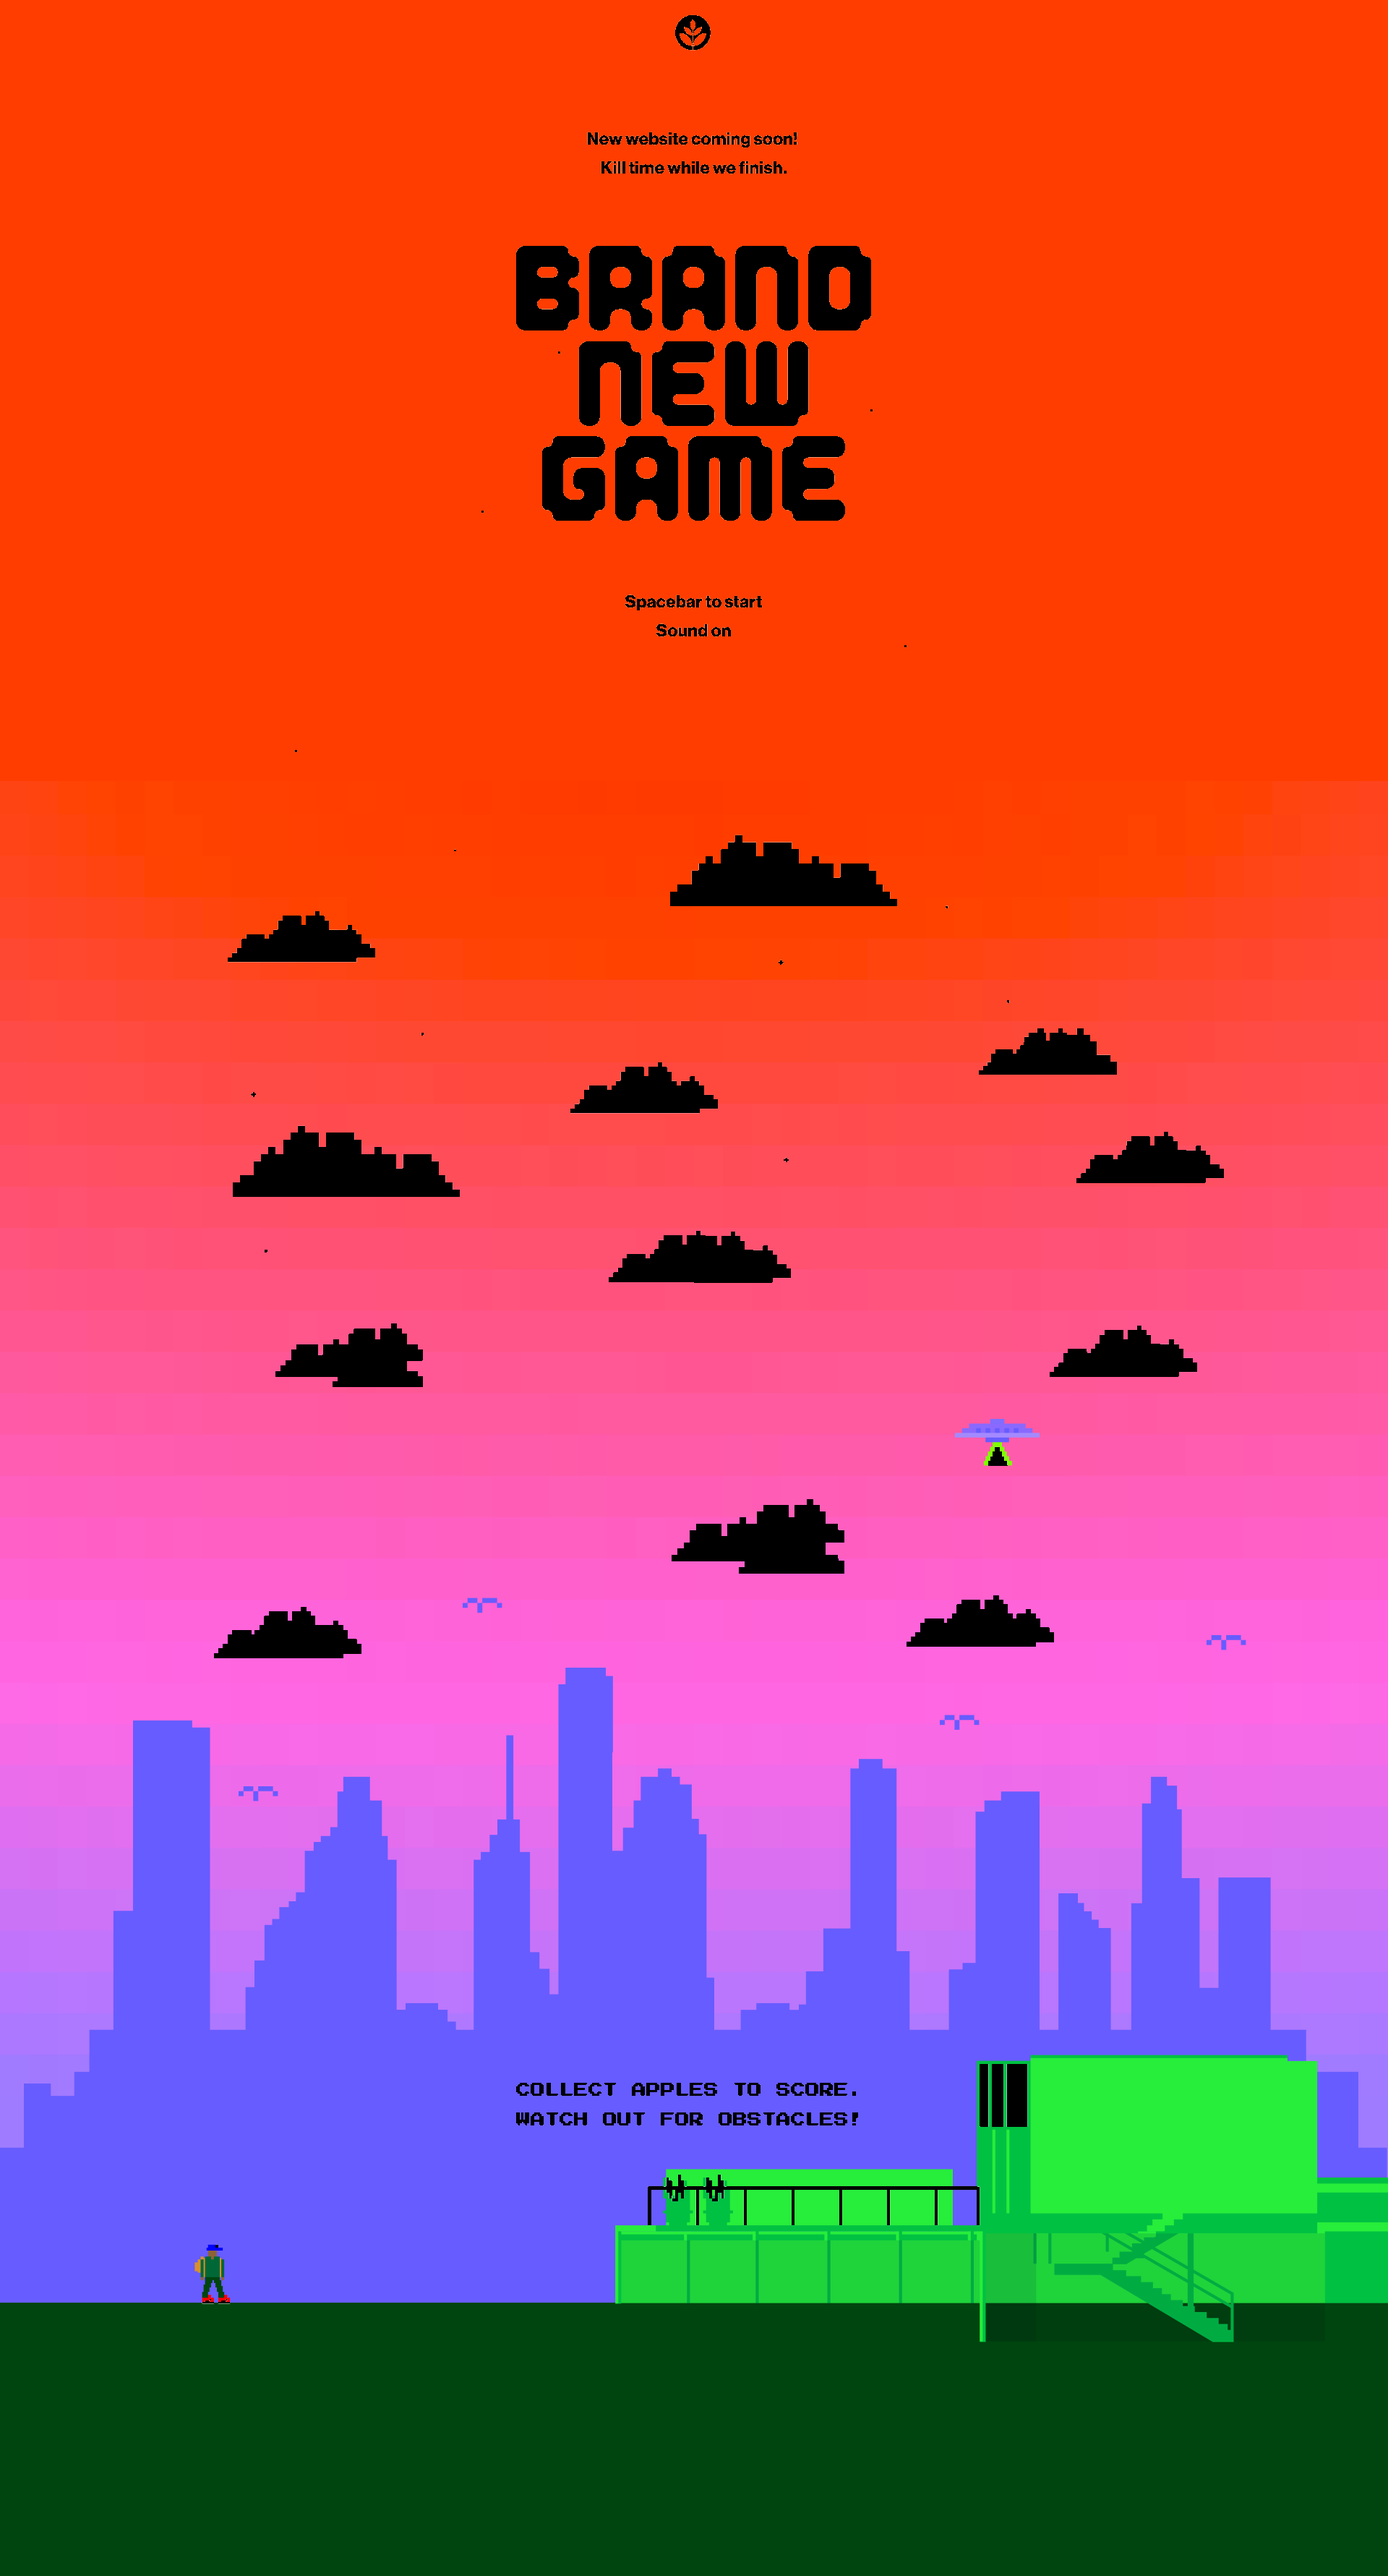
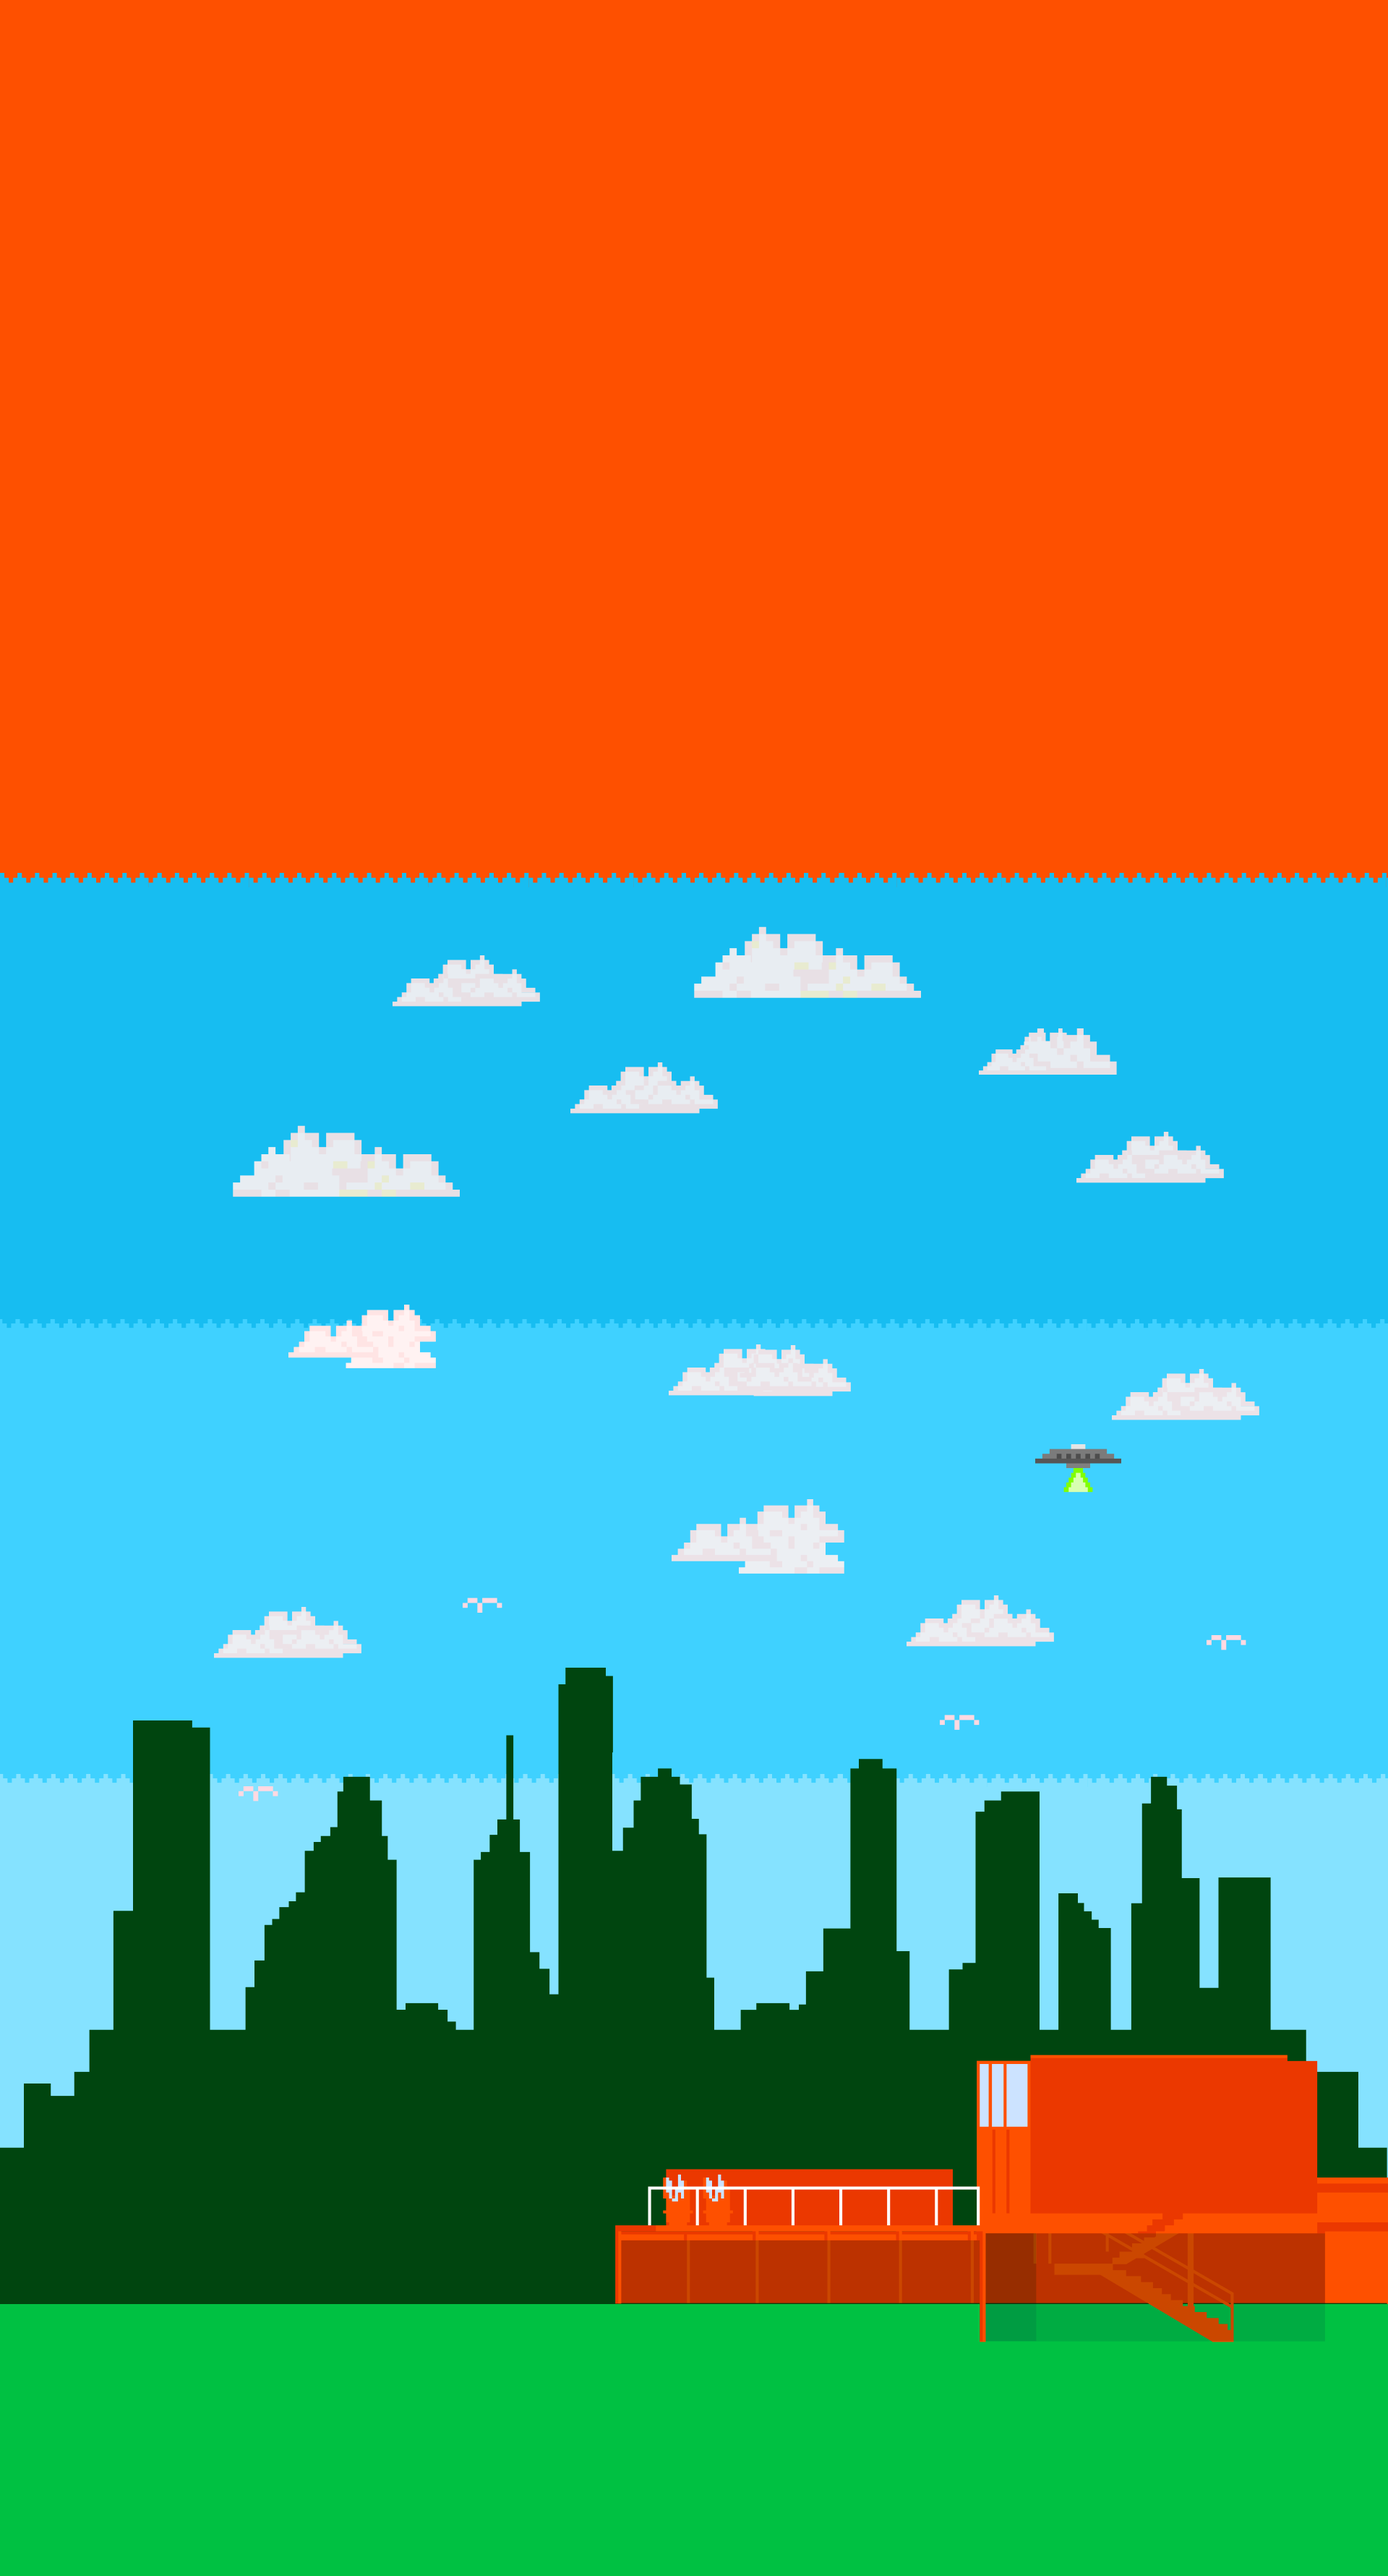
UI Changes

diff --git a/css/environment-colors.css b/css/environment-colors.css
@@ -1,10 +1,10 @@
 /* Environments used to change colors per level, not really needed anymore except for .black-screen*/
 
 :root {
-  --outside-top-color: #fe5000;
-  --outside-bottom-color: #BF92FF;
-  --hallway-top-color: #BF92FF;
-  --hallway-bottom-color: #BF92FF;
+  --outside-top-color: #00C142;
+  --outside-bottom-color: #00C142;
+  --hallway-top-color: #00C142;
+  --hallway-bottom-color: #00C142;
   --library-top-color: #BB5E4A;
   --library-bottom-color: #3C4043;
   --lab-top-color: #61A9FF;
@@ -14,55 +14,5 @@
 }
 
 .black-screen {
-  background-color: #BF92FF;
-}
-
-.outside {
-  background: linear-gradient(
-    to bottom,
-    var(--outside-top-color) 0%,
-    var(--outside-top-color) 50%,
-    var(--outside-bottom-color) 50%,
-    var(--outside-bottom-color) 100%
-  );
-}
-
-.hallway {
-  background: linear-gradient(
-    to bottom,
-    var(--hallway-top-color) 0%,
-    var(--hallway-top-color) 50%,
-    var(--hallway-bottom-color) 50%,
-    var(--hallway-bottom-color) 100%
-  );
-}
-
-.library {
-  background: linear-gradient(
-    to bottom,
-    var(--library-top-color) 0%,
-    var(--library-top-color) 50%,
-    var(--library-bottom-color) 50%,
-    var(--library-bottom-color) 100%
-  );
-}
-
-.lab {
-  background: linear-gradient(
-    to bottom,
-    var(--lab-top-color) 0%,
-    var(--lab-top-color) 50%,
-    var(--lab-bottom-color) 50%,
-    var(--lab-bottom-color) 100%
-  );
-}
-
-.gym {
-    background: linear-gradient(
-    to bottom,
-    var(--gym-top-color) 0%,
-    var(--gym-top-color) 50%,
-    var(--gym-bottom-color) 50%,
-    var(--gym-bottom-color) 100%
-  );
+  background-color: #00C142;
 }

diff --git a/styles.css b/styles.css
@@ -27,17 +27,18 @@ body {
     /* max-height: -webkit-fill-available; */
 
     font-family: 'Press Start 2P', cursive;
-    color: #CEFFDE;
+    color: #FFF0CC;
     background-color: #FF3D00;
   }
 
+  /* BG color is set in gameSetup.js */
   .world {
     position: relative;
     top: 50%;
-    background-color: #BF92FF;
+    background-color: #00C142;
     overflow: hidden;
     width: 100%;
-    color: #CEFFDE;
+    color: #FFF0CC;
     padding-top: (16 / 9 * 100);
     transform: translate(0, 30%);
 }
@@ -79,7 +80,7 @@ body {
     position: absolute;
     /* when updating width: make sure to change ground width value of second ground piece in setupGround() in ground.js */
     /* width is 1% bigger to cover boundary glitches */
-    width: 295%;
+    width: 202%;
     height: auto;
 
     top: 10.4%;
@@ -101,7 +102,7 @@ body {
     bottom: calc(var(--bottom) * 1%);
     will-change: transform;
 
-    /* Scale Pixel Art!! Doesnt work on Safari :( */
+    /* Scale Pixel Art!! Doesn't work on Safari :( */
     image-rendering: pixelated;
     image-rendering: crisp-edges;
 }
@@ -123,7 +124,7 @@ body {
     bottom: calc(var(--bottom) * 1%);
     will-change: transform;
 
-    /* Scale Pixel Art!! Doesnt work on Safari :( */
+    /* Scale Pixel Art!! Doesn't work on Safari :( */
     image-rendering: pixelated;
     image-rendering: crisp-edges;
 }

diff --git a/scripts/obstacle.js b/scripts/obstacle.js
@@ -9,7 +9,7 @@ import { variableHolder } from "./variableHandler.js";
 import { collectSound } from "./audioManager.js";
 import { windowElements } from "./variableHandler.js";
 
-// Ending Max: 500  Begining Max 2500:
+// Ending Max: 500  Beginning Max 2500:
 let CACTUS_INTERVAL_MIN = 600;
 let CACTUS_INTERVAL_MAX = 2000; // speed of obstacles appearing in milliseconds
 
@@ -211,14 +211,8 @@ export function createApple() {
 
   const randNum = randomNumberBetween(1, 10);
 
-  // Makes coins rarer
-  if (randNum >= 9) {
-    apple.src = "imgs/coin.png"; // selects the correct image from files
-    apple.classList.add("coin"); // adds CSS styles to apple
-  } else {
-    apple.src = "imgs/apple-v02.png"; // selects the correct image from files
-    apple.classList.add("apple"); // adds CSS styles to apple
-  }
+  apple.src = "imgs/apple-v02.png"; // selects the correct image from files
+  apple.classList.add("apple"); // adds CSS styles to apple
 
   setCustomProperty(apple, "--bottom", randomNumberBetween(45, 64)); // sets apple height
 

diff --git a/scripts/ground.js b/scripts/ground.js
@@ -21,13 +21,13 @@ export function hideGround() {
   });
 }
 
-const groundWidth = 294; // if you change this make sure to change .ground width in css
+const groundWidth = 201; // if you change this make sure to change .ground width in css
 export function resetGround() {
   setCustomProperty(groundElems[0], "--left", 0);
   setCustomProperty(groundElems[1], "--left", groundWidth); //we have our width at 300% so 300 is what we set our starting value as for the second ground piece
 }
 
-// Move ground left (speedScale) = accellerates player speed over time
+// Move ground left (speedScale) = accelerates player speed over time
 export function updateGround(delta, speed, speedScale) {
   groundElems.forEach((ground) => {
     incrementCustomProperty(ground, "--left", delta * speedScale * speed * -1);

diff --git a/css/title-screen.css b/css/title-screen.css
@@ -58,19 +58,19 @@
   position: absolute;
   text-align: center;
   margin: 0 auto;
+  margin-top: 8vh;
   top: 1vh;
   /* border: 2px solid red; */
-  /* transform: translate(-50%, -50%); */
+  /* transform: translate(50%, 50%); */
 
 }
 
 .start-screen-logo-button {
-  position: relative;
-  /* top: 1.1%; */
-  top: 1vh;
-  /* left: 0%; */
+  position: absolute;
+  top: 2vh;
+  right: 2vw;
   height: 5vh;
-  margin-bottom: 9vh;
+  margin-bottom: 6vh;
 }
 
 .start-screen-logo-img {
@@ -144,14 +144,6 @@ a:link a:visited a:active {
 
   .start-screen {
     overflow: visible;
-  }
-
-  .start-screen-logo-button {
-    position: relative;
-    top: 1vh;
-    height: 5vh;
-    transform: translate(0%, 00%);
-    margin-bottom: 6vh;
   }
 
   .start-screen-logo-button-leaderboard {

diff --git a/scripts/introScene.js b/scripts/introScene.js
@@ -56,13 +56,13 @@ window.addEventListener("resize", setupIntro); // to protect screen resizes
 setupIntro();
 function setupIntro() {
 
-  // could never get mobile working right so half this code doesnt work, needs to be experimented with
+  // could never get mobile working right so half this code doesn't work, needs to be experimented with
 
     // Horizontal ui positioning
     if (window.matchMedia("(orientation: landscape)").matches) {
       horizontalScreen = true;
       console.log("you're in LANDSCAPE mode", "horizontal: ", horizontalScreen);
-      bigImg.src = "imgs/landing-page-v13.png";
+      //bigImg.src = "imgs/landing-page-v14.png";
     }
     // Vertical ui positioning
     if (window.matchMedia("(orientation: portrait)").matches) {

diff --git a/index.html b/index.html
@@ -29,17 +29,20 @@
     <div class="start-screen" data-start-screen>
       <div class="title-container moveable-item">
         <img
-          src="imgs/landing-page-v13.png"
+          src="imgs/landing-page-v14.png"
           class="start-screen-img"
         />
-        <div class="ui-container">
-          <div class="title-text-container">
 
-            <a href="https://brandnewschool.com/"
+        <a href="https://brandnewschool.com/"
             ><img
               class="clickable start-screen-logo-button"
               src="imgs/bns-leaf.png"
           /></a>
+
+        <div class="ui-container">
+          <div class="title-text-container">
+
+            
 
             <div class="title-text">
               <br />

diff --git a/script.js b/script.js
@@ -14,10 +14,10 @@ const WORLD_HEIGHT = 65;
 
 
 // web worker test
-const myWorker = new Worker("web-workers/simple-worker.js")
-myWorker.onmessage = ({message}) => {
-  console.log("Recieved Message: ", message.data)
-}
+// const myWorker = new Worker("web-workers/simple-worker.js")
+// myWorker.onmessage = ({message}) => {
+//   console.log("Received Message: ", message.data)
+// }
 
 export const touchDevice = ('ontouchstart' in document.documentElement);
 if(touchDevice) document.querySelector("[data-space-to-start]").innerHTML = "Tap To Start"

diff --git a/scripts/gameSetup.js b/scripts/gameSetup.js
@@ -58,7 +58,7 @@ export function setupGame() {
   windowElements.preGameScreen.forEach((item) => item.remove()); // get rid of all title elements
   windowElements.worldElem.classList.remove("hide");
   windowElements.mainUIElem.innerHTML = `<div class="home-screen space-to-start text-blink">SPACEBAR TO JUMP</div>`;
-  document.body.style.backgroundColor = "#BF92FF";
+  document.body.style.backgroundColor = "#00C142";
 
   windowElements.scoreElem.forEach((item) => item.classList.remove("hide"));
   showPlayer(); // show player

diff --git a/scripts/pet.js b/scripts/pet.js
@@ -12,7 +12,7 @@ const JUMP_SPEED = 0.3;
 const GRAVITY = 0.0015;
 const PET_FRAME_COUNT = 3; // amount of animation frames
 const FRAME_TIME = 100; // how long each animation frame should last (in milliseconds)
-const heightFromGround = 40.5; // also change css --bottom to match
+const heightFromGround = 40.6; // also change css --bottom to match
 
 // PET SETUP
 let isJumping;
